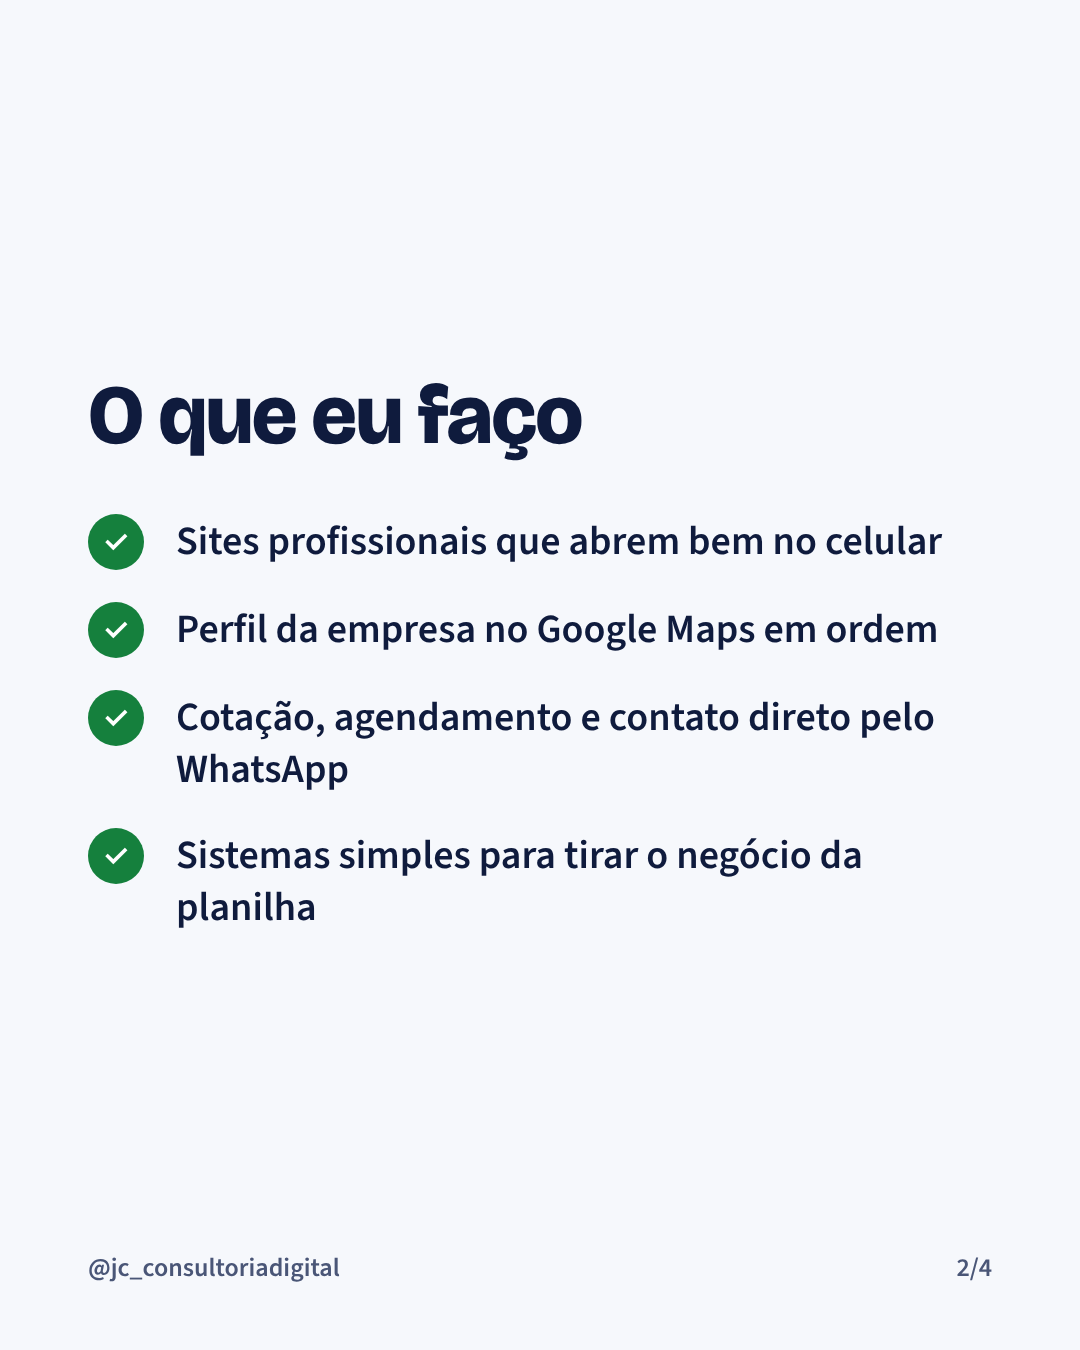
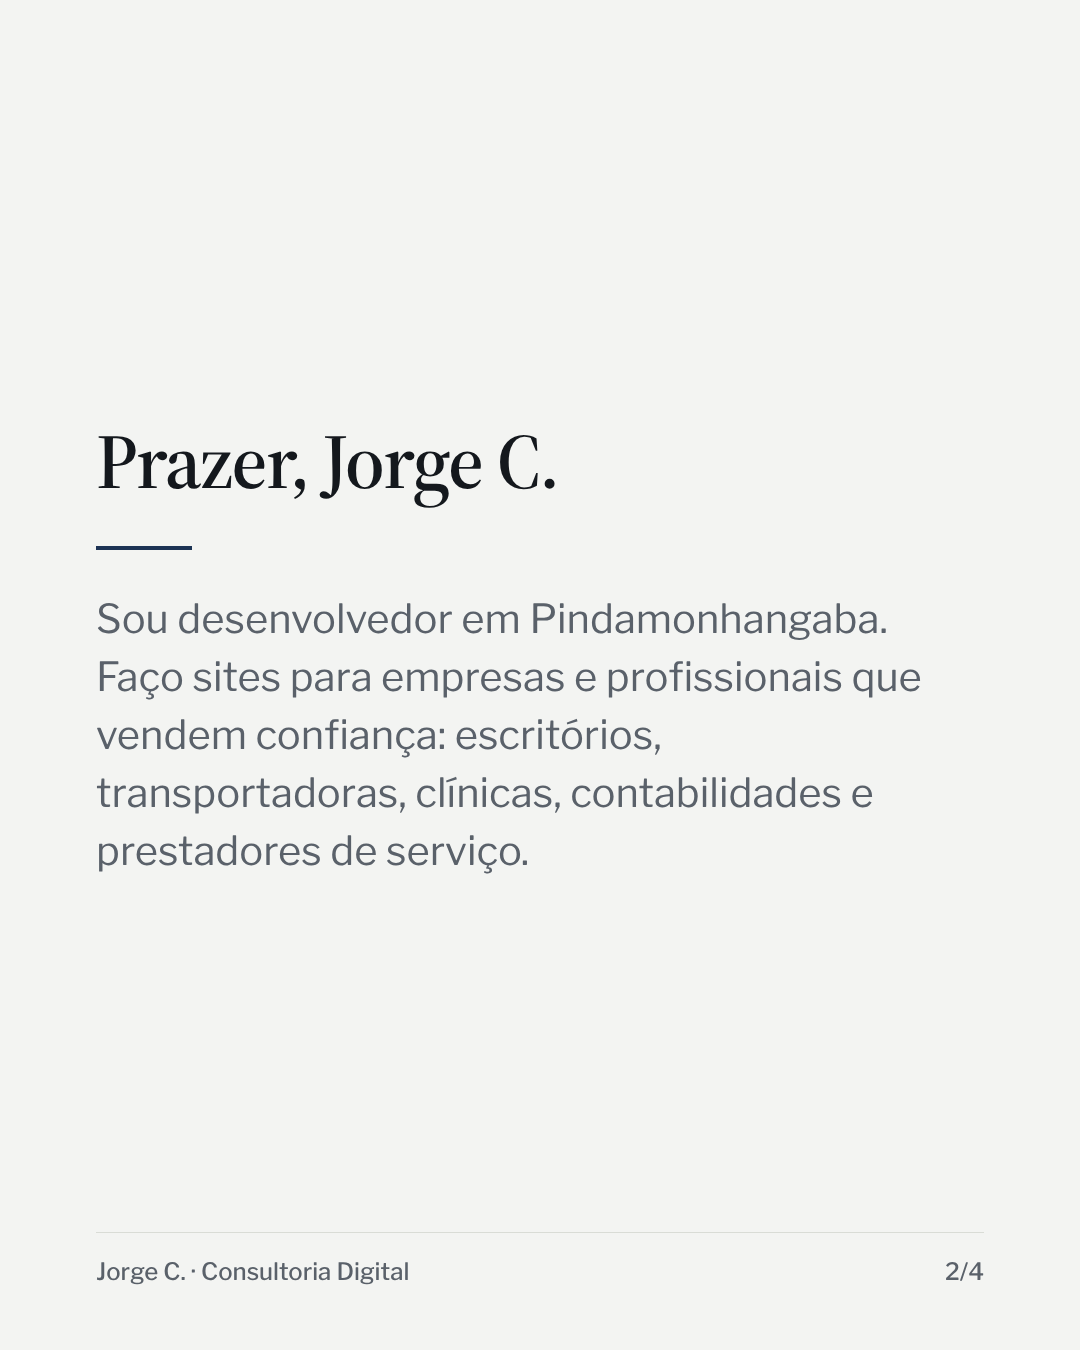
Redo Instagram posts in the new site identity with new copy
- Navy/stone palette and Source Serif 4 + Libre Franklin, same tokens as the site
- Owner photo on the intro post; CTAs point to WhatsApp to request a sector model
- New captions, bio and Reels script aligned with the multi-sector positioning
- Generator now clears old post folders before rendering

Claude-Session: https://claude.ai/code/session_01F2PRuiwSMcXyUJKNz3C9Fn

Changed region(s): [[0.0611, 0.28, 0.8556, 0.6844], [0.0917, 0.9333, 0.3667, 0.9644], [0.8861, 0.9333, 0.9167, 0.9644]]

diff --git a/marketing/instagram/LEGENDAS.md b/marketing/instagram/LEGENDAS.md
@@ -1,10 +1,27 @@
 # Instagram: 9 primeiras publicações
 
-As imagens estão nas pastas ao lado (1080×1350, formato retrato do feed). Publique de 01 a 09, uma ou duas por dia. Depois, fixe a 01 (apresentação), a 03 (OAB) e a 09 (diagnóstico) no topo do perfil.
+Imagens em 1080×1350 (formato retrato do feed), uma pasta por publicação. Publique de 01 a 09, uma por dia. Depois, fixe no topo do perfil a 01 (apresentação), a 02 (onde perde clientes) e a 09 (modelo do seu setor).
 
 Para editar um texto: altere `conteudo.mjs` e rode `node marketing/instagram/gerar.mjs`.
 
-**Antes de publicar:** os links dos modelos (`/demos/advocacia` e `/demos/transportes`) só funcionam depois que o site novo estiver no ar.
+---
+
+## Perfil
+
+**Nome:** Jorge C. | Sites para empresas
+
+**Bio:**
+```
+Sites para empresas e profissionais que vendem confiança
+📍 Pindamonhangaba · Vale do Paraíba · online
+Veja um modelo do seu setor, sem compromisso 👇
+```
+
+**Link:** https://consultoriadigitaljc.netlify.app/
+
+**Foto do perfil:** a mesma do site, recortada no rosto.
+
+**Destaques:** Quem sou · Como funciona · Modelos · Dúvidas
 
 ---
 
@@ -13,37 +30,37 @@ Para editar um texto: altere `conteudo.mjs` e rode `node marketing/instagram/ger
 Pasta: `01-apresentacao/`
 
 ```
-Oi, eu sou o Jorge 👋
+Antes de ligar, o cliente pesquisa sua empresa. O que ele encontra decide se ele liga para você ou para o concorrente.
 
-Moro em Pindamonhangaba e trabalho com sites, presença no Google e sistemas simples para dois tipos de empresa: escritórios de advocacia e transportadoras.
+Prazer, eu sou o Jorge. Desenvolvo sites para empresas e profissionais que vendem confiança: escritórios de advocacia, transportadoras, clínicas, contabilidades e prestadores de serviço do Vale do Paraíba.
 
-Por que só esses dois? Porque cada um tem regras e rotinas próprias. O site de um advogado precisa seguir as normas de publicidade da OAB. O de uma transportadora precisa responder cotação rápido. Conhecer isso faz diferença no resultado.
+Como eu trabalho:
+• Você fala direto comigo, do orçamento ao suporte
+• Proposta com escopo, prazo e preço por escrito
+• Domínio, hospedagem e acessos ficam no seu nome
+• Site no ar em até 15 dias úteis
 
-Aqui no perfil vou postar dicas práticas para quem quer ser encontrado no Google, modelos de site e bastidores do trabalho.
+Quer ver como ficaria o site da sua empresa? Me chame no WhatsApp (12) 99218-5685 e peça um modelo do seu setor. Sem compromisso.
 
-Quer saber como sua empresa aparece hoje? Me chama no direct ou no WhatsApp (12) 99218-5685 e eu faço um diagnóstico gratuito.
-
-#pindamonhangaba #valedoparaiba #taubate #saojosedoscampos #criacaodesites #sitesprofissionais #marketingjuridico #transportadora
+#pindamonhangaba #valedoparaiba #taubate #saojosedoscampos #criacaodesites #sitesprofissionais
 ```
 
-## 02 · 5 erros no site do escritório (carrossel, 7 imagens)
+## 02 · Onde empresas boas perdem clientes (carrossel, 5 imagens)
 
-Pasta: `02-erros-site-advocacia/`
+Pasta: `02-onde-perde-clientes/`
 
 ```
-Seu escritório tem site, mas o telefone não toca? Pode ser um desses 5 erros.
+Tem empresa excelente perdendo cliente para concorrente pior. Quase sempre por um destes três motivos:
 
-1. Não abre bem no celular
-2. Não diz em qual cidade e em quais áreas você atende
-3. O contato está escondido
-4. O site só fala do escritório e não responde às dúvidas do cliente
-5. O perfil no Google Maps está abandonado
+1. O cliente não encontra você. Ele pesquisa o seu serviço na sua cidade e aparece outra empresa.
+2. Encontra, mas não confia. Site antigo, lento ou amador passa a impressão errada sobre o seu trabalho.
+3. Desiste na hora do contato. Telefone escondido, formulário longo, resposta que demora.
 
-A boa notícia: todos têm solução simples e dentro das regras da OAB.
+Nenhum deles tem a ver com a qualidade do que você entrega. E todos têm solução.
 
-Salve para revisar depois e mande para um colega advogado. Se quiser, eu olho o site do seu escritório de graça.
+Me mande o nome da sua empresa no WhatsApp que eu te digo, sem custo, qual desses está acontecendo com você.
 
-#advocacia #advogados #marketingjuridico #advogadotaubate #advogadosaojosedoscampos #valedoparaiba #sitesparaadvogados
+#marketingdigital #empreendedorismo #pequenasempresas #googlemaps #valedoparaiba #pindamonhangaba
 ```
 
 ## 03 · OAB: o que pode e o que não pode (carrossel, 5 imagens)
@@ -51,17 +68,17 @@ Salve para revisar depois e mande para um colega advogado. Se quiser, eu olho o 
 Pasta: `03-oab-pode-nao-pode/`
 
 ```
-Muito advogado não investe em site por medo de desrespeitar as regras da OAB. Dá para ter presença digital forte e ficar dentro da norma.
+Muito advogado adia o site por receio de descumprir as regras da OAB. Dá para ter presença digital forte e ficar dentro da norma.
 
 O Provimento 205/2021 do Conselho Federal permite site, redes sociais, Google Maps, conteúdo informativo e até anúncios pagos, desde que a publicidade seja informativa, discreta e sóbria.
 
 O que não pode: divulgar honorários para atrair clientes, prometer resultado, expor casos ou clientes, ostentação ligada à profissão e uso dos símbolos da OAB.
 
-Todos os sites que eu faço para escritórios seguem essas regras.
+Os sites que eu faço para escritórios seguem essas regras desde o primeiro rascunho. Peça no WhatsApp um modelo de site para advocacia.
 
-Conteúdo informativo. Para dúvidas sobre um caso específico, consulte a OAB da sua seccional.
+Conteúdo informativo. Em caso de dúvida sobre um caso específico, consulte a OAB da sua seccional.
 
-#provimento205 #publicidadenaadvocacia #marketingjuridico #oab #advocacia #advogados #valedoparaiba
+#provimento205 #publicidadenaadvocacia #marketingjuridico #advocacia #advogados #valedoparaiba
 ```
 
 ## 04 · Modelo de site para advocacia (imagem única)
@@ -69,35 +86,29 @@ Conteúdo informativo. Para dúvidas sobre um caso específico, consulte a OAB d
 Pasta: `04-modelo-advocacia/`
 
 ```
-Um modelo de site para escritório de advocacia que eu desenvolvi.
+Um modelo de site que desenvolvi para escritórios de advocacia.
 
-O que ele tem:
-• Áreas de atuação explicadas de forma clara
-• Respostas para as dúvidas mais comuns dos clientes
-• Agendamento direto pelo WhatsApp
-• Visual sóbrio e dentro das regras da OAB
+O cliente chega com uma dúvida e sai sabendo três coisas: em quais áreas o escritório atua, que a dúvida dele tem resposta e como agendar uma conversa pelo WhatsApp. Tudo em linguagem clara e dentro das regras da OAB.
 
-É um projeto demonstrativo, com escritório fictício. Abra no celular pelo link na bio e navegue como se fosse um cliente.
-
-Quer um assim para o seu escritório? Me chama.
+É um projeto demonstrativo, com escritório fictício. Quer ver como ficaria com o nome e as áreas do seu escritório? Me chame no WhatsApp.
 
 #sitesparaadvogados #advocacia #marketingjuridico #webdesign #valedoparaiba
 ```
 
 ## 05 · Cotação de frete (carrossel, 5 imagens)
 
-Pasta: `05-cotacao-transportadora/`
+Pasta: `05-cotacao-de-frete/`
 
 ```
-Quantas cotações sua transportadora perde por demorar a responder?
+No frete, quem responde a cotação primeiro costuma levar o cliente.
 
-Quando o cliente pede frete pelo WhatsApp, a conversa vira um pingue-pongue: origem, destino, peso, volumes, data... Enquanto isso, ele já cotou com outras duas empresas.
+O problema é que, pelo WhatsApp, uma cotação vira pingue-pongue: origem, destino, peso, volumes, data. Enquanto a conversa anda, o cliente já pediu preço para mais duas transportadoras.
 
-Um formulário de cotação no site resolve: o cliente preenche tudo de uma vez e a mensagem chega pronta no seu WhatsApp. Você só calcula e responde.
+Um formulário no site pede tudo de uma vez e entrega a cotação pronta no seu WhatsApp. Você só calcula e responde.
 
-Comenta "COTAÇÃO" que eu te mando o link de um modelo funcionando.
+Peça no WhatsApp o modelo de site para transportadora e teste o formulário funcionando.
 
-#transportadora #logistica #frete #transportes #valedoparaiba #viadutra #pindamonhangaba #taubate
+#transportadora #logistica #frete #transportes #viadutra #valedoparaiba #pindamonhangaba
 ```
 
 ## 06 · Modelo de site para transportadora (imagem única)
@@ -105,94 +116,78 @@ Comenta "COTAÇÃO" que eu te mando o link de um modelo funcionando.
 Pasta: `06-modelo-transportadora/`
 
 ```
-Modelo de site para transportadora, feito para quem trabalha no eixo da Dutra.
+Modelo de site para transportadora, pensado para quem roda no eixo da Dutra.
 
 • Formulário de cotação que chega pronto no WhatsApp
-• Rotas e cidades atendidas, com km da rodovia
-• Frota com capacidade de cada veículo
+• Rotas e cidades atendidas, com o km da rodovia
+• Frota com a capacidade de cada veículo
 • Cadastro de motoristas e agregados
 
-Projeto demonstrativo, com empresa fictícia. Teste a cotação pelo link na bio.
+Projeto demonstrativo, com empresa fictícia. Quer ver com a sua frota e as suas rotas? Me chame no WhatsApp.
 
-#transportadora #logistica #frete #sitesprofissionais #valedoparaiba #viadutra
+#transportadora #logistica #frete #sitesprofissionais #viadutra
 ```
 
-## 07 · Reels: "Pesquisei isso no Google"
+## 07 · Reels: "Fiz essa pesquisa no Google"
 
 Pasta: `07-reels-capa/` (use a imagem como capa do Reels)
 
-**Roteiro (30 a 45 segundos), gravado na tela do celular:**
+**Roteiro (30 a 45 segundos), gravado com a tela do celular:**
 
-1. **(0–3 s)** Tela do Google. Digite devagar: "advogado previdenciário em pindamonhangaba". Texto na tela: *"Fiz essa pesquisa. Olha o que aparece."*
-2. **(3–12 s)** Role o mapa e os resultados. Narração: "Esses são os escritórios que aparecem para quem procura advogado previdenciário aqui na cidade."
-3. **(12–25 s)** Aponte, sem mostrar nomes (borre se precisar): "Esse tem 40 avaliações e fotos. Esse não tem nem horário de funcionamento. Adivinha para qual o cliente liga primeiro?"
-4. **(25–35 s)** "Aparecer aqui não é sorte. É perfil completo, categoria certa, fotos e avaliações."
-5. **(35–45 s)** Texto na tela: *"Quer saber como seu escritório aparece? Diagnóstico grátis, link na bio."*
+1. **0 a 3 s:** tela do Google. Digite devagar "contador em pindamonhangaba" (troque pelo setor que quiser). Texto na tela: *"Fiz essa pesquisa. Olha o que aparece."*
+2. **3 a 12 s:** role o mapa e os resultados. Narração: "Esses são os escritórios que aparecem para quem procura contador aqui na cidade."
+3. **12 a 25 s:** aponte, sem mostrar nomes (borre se precisar): "Esse tem fotos, horário e 40 avaliações. Esse não tem nem telefone. Para qual você ligaria?"
+4. **25 a 35 s:** "Aparecer aqui não é sorte. É perfil completo, categoria certa, fotos reais e avaliações."
+5. **35 a 45 s:** texto na tela: *"Quer saber como sua empresa aparece? Me chame no WhatsApp."*
 
 **Legenda:**
 
 ```
-Fiz uma pesquisa simples no Google e o resultado diz muito sobre quem recebe mais clientes.
+Fiz uma pesquisa simples no Google e o resultado mostra quem recebe mais ligações.
 
-Seu escritório aparece quando alguém da sua cidade procura pela sua área? Me manda "diagnóstico" no direct que eu verifico para você, sem custo.
+Sua empresa aparece quando alguém da sua cidade procura pelo seu serviço? Me mande o nome dela no WhatsApp que eu verifico, sem custo.
 
-#advocacia #marketingjuridico #googlemaps #pindamonhangaba #valedoparaiba
+#googlemaps #marketinglocal #pindamonhangaba #valedoparaiba #pequenasempresas
 ```
 
-> Não mostre nomes de escritórios reais nem fale mal de ninguém. O ponto é mostrar o que faz diferença, não expor concorrentes.
+> Não mostre nomes de empresas reais nem fale mal de ninguém. O ponto é mostrar o que faz diferença, não expor concorrentes.
 
 ## 08 · Google Maps em 6 passos (carrossel, 8 imagens)
 
 Pasta: `08-google-maps-passos/`
 
 ```
-Seu negócio aparece no Google Maps quando alguém procura pelo que você faz?
+O perfil no Google Maps é, muitas vezes, a primeira coisa que o cliente vê da sua empresa. Antes do site, antes do Instagram.
 
 Em 6 passos:
 1. Reivindique o perfil
-2. Escolha a categoria certa
-3. Preencha tudo: endereço, horário, contatos e descrição
-4. Coloque fotos reais
+2. Escolha a categoria principal certa
+3. Preencha endereço, horário, contatos e descrição
+4. Use fotos reais
 5. Peça avaliações para clientes satisfeitos
 6. Responda as avaliações e mantenha o perfil atualizado
 
-Salve este post para fazer com calma. Se preferir que eu configure para você, é só chamar.
+Salve para fazer com calma. Se preferir que eu configure junto com o seu site, é só me chamar no WhatsApp.
 
-#googlemaps #perfildaempresa #googlemeunegocio #marketinglocal #valedoparaiba #pindamonhangaba #taubate
+#googlemaps #perfildaempresa #googlemeunegocio #marketinglocal #valedoparaiba #pindamonhangaba
 ```
 
-## 09 · Diagnóstico gratuito (carrossel, 3 imagens)
+## 09 · Veja um modelo do seu setor (carrossel, 3 imagens)
 
-Pasta: `09-diagnostico-gratis/`
+Pasta: `09-modelo-do-seu-setor/`
 
 ```
-Diagnóstico digital gratuito para escritórios de advocacia e transportadoras do Vale do Paraíba.
+Contratar um site sem saber como ele vai ficar é um risco. Por isso eu começo mostrando.
 
-Eu analiso:
-• Como sua empresa aparece no Google e no Maps
-• Como o seu site funciona no celular
-• O que dá para melhorar primeiro
+Você me diz o seu setor e eu te mando um modelo de site do seu ramo, para ver o resultado antes de decidir qualquer coisa:
+• Advocacia
+• Transportes e logística
+• Saúde e clínicas
+• Contabilidade
+• Construção e reformas
+• Ou me conte o que você faz
 
-Você recebe um vídeo curto pelo WhatsApp com 3 melhorias práticas. Sem custo e sem compromisso.
+Mande "modelo" e o seu setor no WhatsApp (12) 99218-5685. Respondo em até 1 dia útil, sem compromisso.
 
-Para pedir: mande "diagnóstico" no direct ou no WhatsApp (12) 99218-5685.
-
-#diagnosticodigital #advocacia #transportadora #valedoparaiba #pindamonhangaba #saojosedoscampos #taubate
+#criacaodesites #sitesprofissionais #pindamonhangaba #taubate #saojosedoscampos #valedoparaiba
 ```
-
----
-
-## Bio e destaques
-
-**Nome do perfil:** Jorge C. | Sites para Advogados e Transportes
-
-**Bio:**
-```
-Sites e sistemas para advogados e transportadoras
-📍 Pinda · Vale do Paraíba · online
-Diagnóstico digital grátis 👇
-```
-
-**Link:** https://consultoriadigitaljc.netlify.app/ (o site agora leva direto ao WhatsApp)
-
-**Destaques:** Quem sou · Advocacia · Transportes · Modelos · Como funciona
